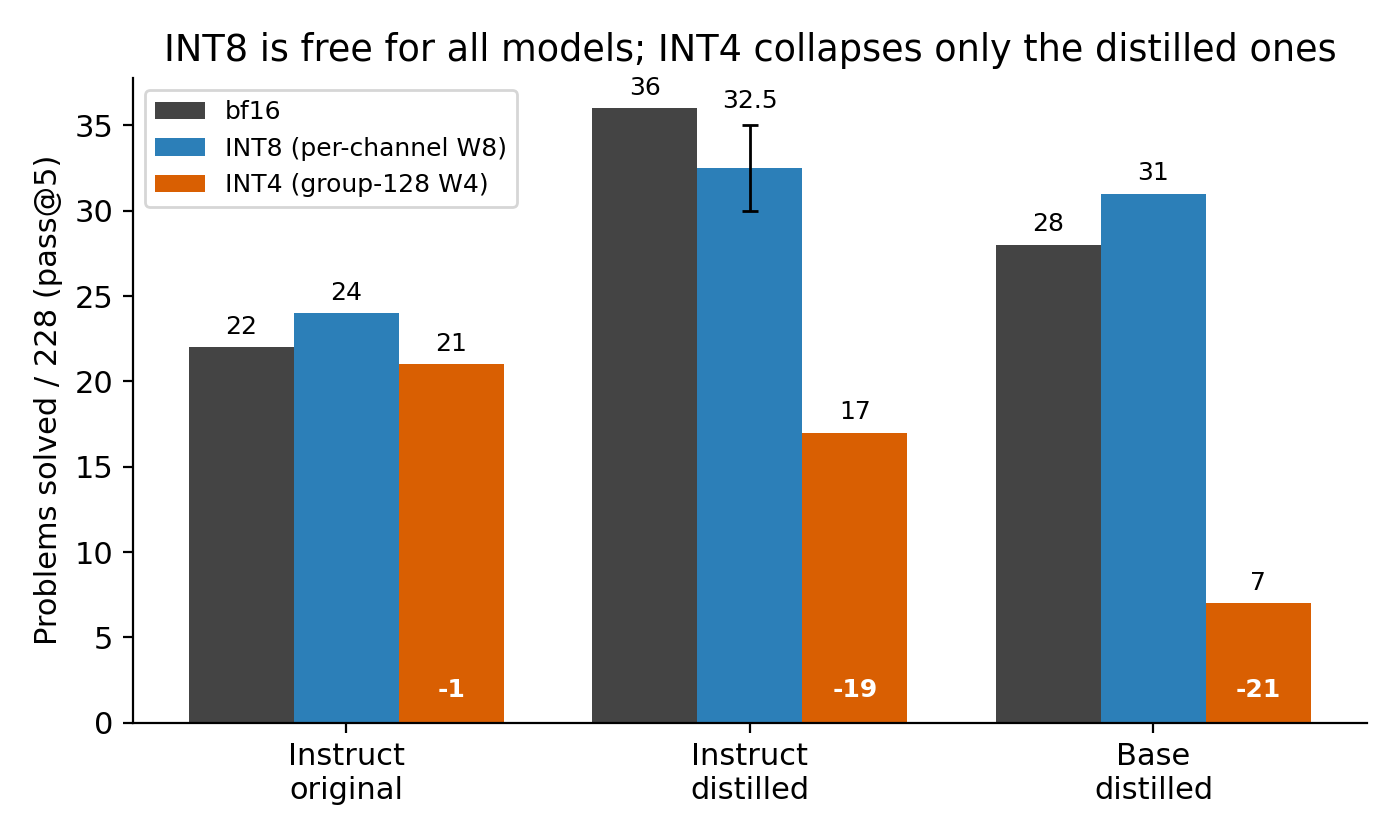
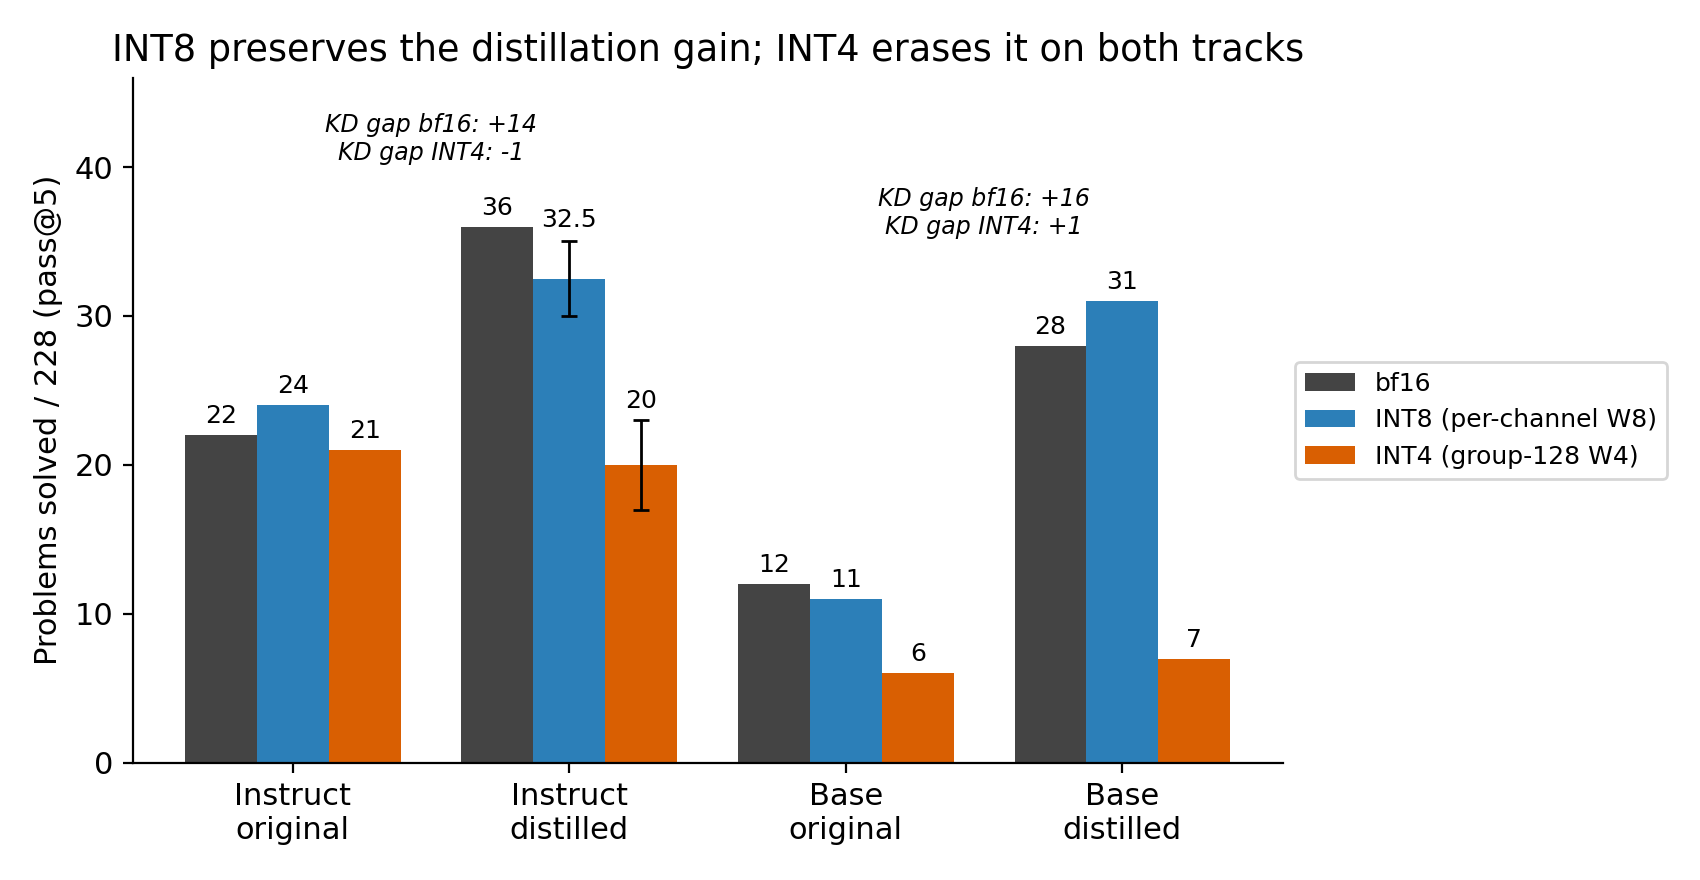
feat: full quantization grid int4 erases distillation gain on both tracks

diff --git a/scripts/make_figures.py b/scripts/make_figures.py
@@ -73,30 +73,37 @@ def fig2_gap_study():
 
 
 def fig3_quantization():
-    # bf16 / INT8 / INT4 grid; instruct-distilled INT8 = mean of two draws {30, 35}
-    models = ["Instruct\noriginal", "Instruct\ndistilled", "Base\ndistilled"]
-    bf16 = [22, 36, 28]
-    int8 = [24, 32.5, 31]
-    int4 = [21, 17, 7]
-    fig, ax = plt.subplots(figsize=(7, 4.2))
-    xs = [0, 1, 2]
+    # Full 2x3 grid; multi-draw cells plotted as the mean with an error bar:
+    # instruct-distilled INT8 {30, 35}, INT4 {17, 23}
+    models = ["Instruct\noriginal", "Instruct\ndistilled", "Base\noriginal", "Base\ndistilled"]
+    bf16 = [22, 36, 12, 28]
+    int8 = [24, 32.5, 11, 31]
+    int4 = [21, 20, 6, 7]
+    fig, ax = plt.subplots(figsize=(8.5, 4.4))
+    xs = [0, 1, 2, 3]
     w = 0.26
     ax.bar([x - w for x in xs], bf16, w, color="#444444", label="bf16")
     ax.bar(xs, int8, w, color=C_DIST, label="INT8 (per-channel W8)")
     ax.bar([x + w for x in xs], int4, w, color=C_BAD, label="INT4 (group-128 W4)")
-    ax.errorbar([1], [32.5], yerr=[[2.5], [2.5]], fmt="none", ecolor="black", capsize=3, lw=1)
+    ax.errorbar([1], [32.5], yerr=2.5, fmt="none", ecolor="black", capsize=3, lw=1)
+    ax.errorbar([1 + w], [20], yerr=3, fmt="none", ecolor="black", capsize=3, lw=1)
     for x, b, i8, i4 in zip(xs, bf16, int8, int4):
         ax.text(x - w, b + 0.8, f"{b:g}", ha="center", fontsize=9)
         ax.text(x, i8 + (3.5 if x == 1 else 0.8), f"{i8:g}", ha="center", fontsize=9)
-        ax.text(x + w, i4 + 0.8, f"{i4:g}", ha="center", fontsize=9)
-    d4 = [i4 - b for b, i4 in zip(bf16, int4)]
-    for x, d in zip(xs, d4):
-        ax.text(x + w, 1.5, f"{d:+d}", ha="center", fontsize=9, color="white", fontweight="bold")
+        ax.text(x + w, i4 + (3.8 if x == 1 else 0.8), f"{i4:g}", ha="center", fontsize=9)
+    # distilled-vs-original gap annotations per track
+    for track, (xo, xd) in {"instruct": (0, 1), "base": (2, 3)}.items():
+        gap_bf = bf16[xd] - bf16[xo]
+        gap_i4 = int4[xd] - int4[xo]
+        ax.text((xo + xd) / 2, max(bf16[xd], int8[xd]) + 4.5,
+                f"KD gap bf16: +{gap_bf}\nKD gap INT4: {gap_i4:+d}",
+                ha="center", fontsize=8.5, style="italic")
     ax.set_xticks(xs)
     ax.set_xticklabels(models)
+    ax.set_ylim(0, 46)
     ax.set_ylabel("Problems solved / 228 (pass@5)")
-    ax.set_title("INT8 is free for all models; INT4 collapses only the distilled ones")
-    ax.legend(fontsize=9)
+    ax.set_title("INT8 preserves the distillation gain; INT4 erases it on both tracks")
+    ax.legend(fontsize=9, loc="center left", bbox_to_anchor=(1.0, 0.5))
     fig.tight_layout()
     fig.savefig(f"{OUT}/fig3_quantization.png", dpi=200)
 

diff --git a/history/methods.md b/history/methods.md
@@ -84,6 +84,21 @@ Headline finding: the original instruct model is essentially INT4-robust (-1, wi
 
 This sets up Phase 3 cleanly: the current distilled checkpoints are QEAD-on, so the 2x2 question is whether QEAD-off distillation degrades even worse at INT4. If yes, QEAD partially mitigates a real fragility that distillation itself introduces (an honest and novel framing: distillation creates INT4 fragility, QEAD recovers part of it). If QEAD-off is the same, QEAD does not help and the paper reports the fragility finding itself, with INT8 robustness as the deployment recommendation.
 
+## INT4 grid completed: quantization erases the distillation gain
+
+Strengthening runs: second INT4 draw on instruct distilled (seed 42) scored 23 (first draw 17, bf16 band 35 to 38), confirming the collapse is real, roughly 36 to 20. Base original rows: INT8 11 (bf16 12, free like everywhere else), INT4 6 (bf16 12, halved, truncation 29 to 70).
+
+Full 2x3 grid (solved / 228):
+
+| Model | bf16 | INT8 | INT4 |
+|---|---|---|---|
+| Instruct original | 22 | 24 | 21 |
+| Instruct distilled | 36 | 30 / 35 | 17 / 23 |
+| Base original | 12 | 11 | 6 |
+| Base distilled | 28 | 31 | 7 |
+
+Unified finding: at bf16 the distilled models lead the originals by +14 (instruct) and +16 (base). At INT4 the gap vanishes on both tracks: instruct 20 vs 21, base 7 vs 6, statistically identical. W4 quantization erases the distillation gain completely, while the pretrained backbone capability survives (instruct fully at -1, base partially at -6). INT8 preserves the gain fully on all four models. The knowledge added by KD is stored in weight structure that 4-bit rounding destroys; this is a sharper claim than "distilled models degrade more" and is the paper's headline pending the Phase 3 QEAD-off ablation (does error-aware weighting change where the knowledge is stored, or is the fragility inherent to KD).
+
 ## Failure mixture across formats (base model, 116,170 test executions per format)
 
 Per test execution category share:

diff --git a/notes/progress.md b/notes/progress.md
@@ -117,7 +117,10 @@ Next GPU work: PTQ INT8 evaluation (Phase 2), then 3B student (Phase 4).
 - [x] INT4 grid: instruct original 22→21 (**robust**), instruct distilled 36→17, base distilled
       28→7 (trunc 158, degenerate loops). **Distillation dramatically increases INT4 fragility.**
 - [ ] Phase 3: train QEAD-off distilled, eval bf16 + INT4 — does QEAD mitigate the fragility?
-- [ ] (Optional) base-original INT8/INT4 for table symmetry; second INT4 draw on instruct distilled
+- [x] Second INT4 draw instruct distilled: 23 (draws {17, 23} vs bf16 35-38 — collapse confirmed)
+- [x] Base original INT8 11 / INT4 6 (bf16 12) — grid complete
+- **Headline: INT4 erases the distillation gain on both tracks (instr 20 vs 21, base 7 vs 6);
+  INT8 preserves it fully everywhere**
 
 ### Phase 3: 2×2 QEAD headline experiment — not started
 - [x] `qead: false` config flag / `--no-qead` CLI flag (uniform weights over response tokens;
